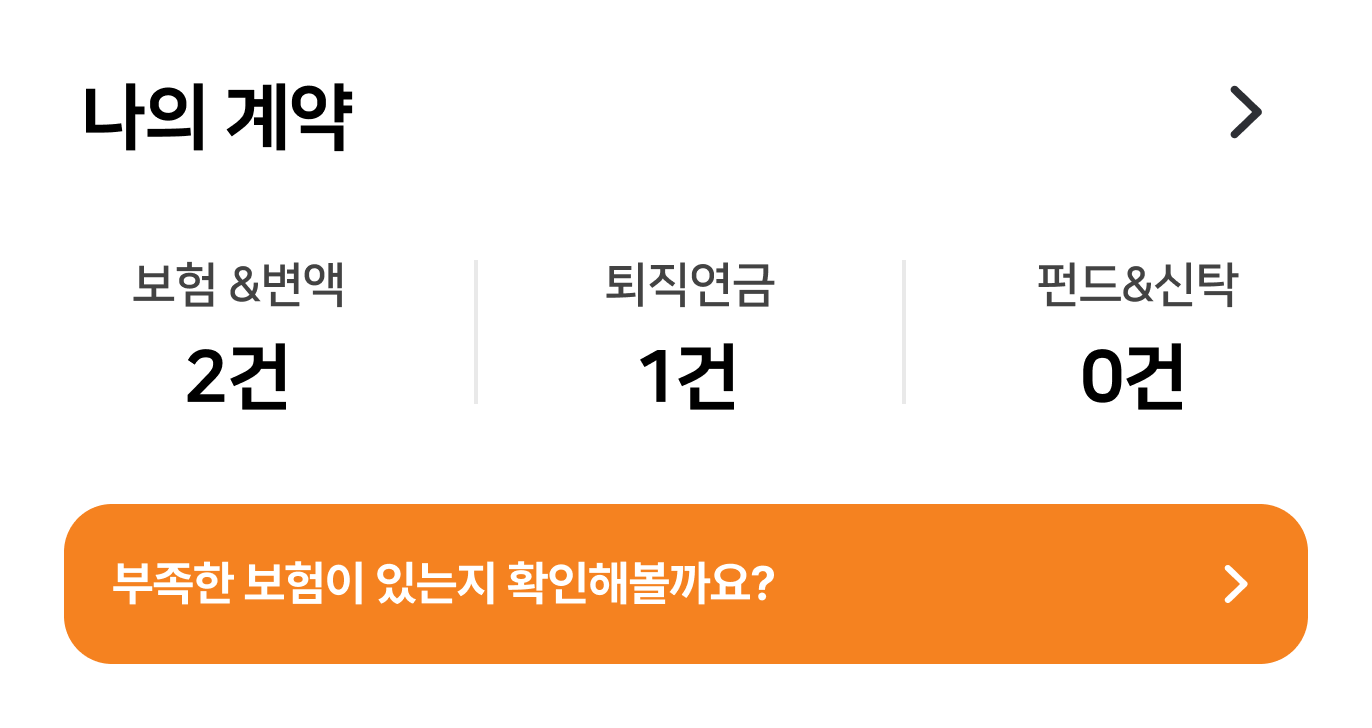
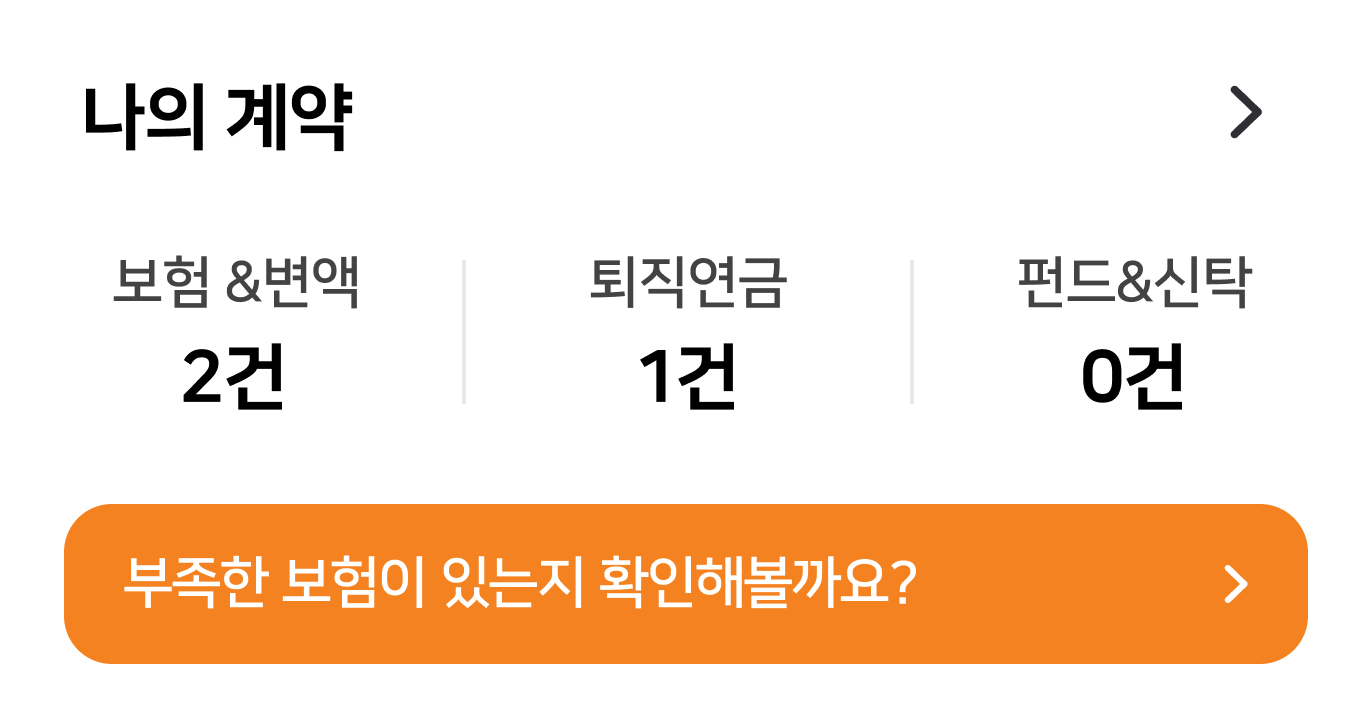
a안 수정
a안 수정

diff --git a/sian/typeA/sian.css b/sian/typeA/sian.css
@@ -306,6 +306,9 @@ header .logo svg {
 .card-content__round-box .recommend-routine__wrap .tit {
   padding: calc(64 / 16 * 1rem) calc(20 / 16 * 1rem) 0;
 }
+.tab-pane1s.health-producttab .swiper-slide {
+  width: 85.6vw !important;
+}
 
 /* 그래프 */
 .graph__wrap--bar-type {
@@ -531,7 +534,7 @@ header .logo svg {
   color: #616161;
   font-family: "Pretendard";
   font-size: 12px;
-  font-weight: 500;
+  font-weight: 400;
   line-height: 18px; /* 150% */
   letter-spacing: -0.24px;
 }
@@ -570,12 +573,12 @@ header .logo svg {
 .section.drinking-info ul {
   flex-direction: column;
   display: flex;
-  gap: 36px;
+  gap: 24px;
 }
 .section.drinking-info li {
   display: flex;
   justify-content: space-between;
-  gap: 21px;
+  gap: 20px;
   align-items: center;
 }
 .section.drinking-info li img {
@@ -601,7 +604,7 @@ header .logo svg {
   font-family: "Pretendard";
   font-size: 13px;
   font-style: normal;
-  font-weight: 500;
+  font-weight: 400;
   line-height: 18px; /* 138.462% */
   letter-spacing: -0.26px;
 }
@@ -651,10 +654,15 @@ header .logo svg {
 }
 
 .section.health_report {
-  padding: calc(20 / 16 * 1rem) calc(6 / 16 * 1rem) calc(34 / 16 * 1rem);
+  padding: calc(22 / 16 * 1rem) calc(16 / 16 * 1rem) calc(34 / 16 * 1rem);
+  display: flex;
+  gap: 15px;
 }
+
 .section.health_report img {
-  width: 100%;
+  width: calc(50% - 7.5px);
+  box-shadow: 0px 3px 12px 0px rgba(0, 0, 0, 0.11);
+  border-radius: 20px;
 }
 @keyframes bar-pos1 {
   from {
@@ -1971,15 +1979,15 @@ header .logo svg {
 }
 
 .swiper.card0100 .video__wrap {
-  position: relative;  
+  position: relative;
 }
 .swiper.card0100 .video__wrap video {
   position: absolute;
   width: 100%;
   height: 100%;
-  left:0;
+  left: 0;
   right: 0;
-  bottom:0;
+  bottom: 0;
   border-radius: 12px;
   overflow: hidden;
 }

diff --git a/sian/typeA/typeA01.html b/sian/typeA/typeA01.html
@@ -101,11 +101,11 @@
               <div class="swiper-slide">
                 <div class="video__wrap">
                   <video playsinline autoplay muted loop>
-                    <source src="./img/temp00000.mp4" type="video/mp4">
+                    <source src="./img/temp00000.mp4" type="video/mp4" />
                     <!-- <source src="./img/temp00000.ogg" type="video/ogg"> -->
                     Your browser does not support the video tag.
-                  </video>     
-                  <img src="./img/temp00000.png" style="opacity: 0" alt="" />              
+                  </video>
+                  <img src="./img/temp00000.png" style="opacity: 0" alt="" />
                 </div>
               </div>
               <div class="swiper-slide">
@@ -277,7 +277,7 @@
                 <!-- <li><a href="#">연금</a></li> -->
               </ul>
             </div>
-            <div class="tab-pane1s">
+            <div class="tab-pane1s health-producttab">
               <div class="tab-pane1 is-active">
                 <div class="section swiper-card">
                   <div class="swiper card01">

diff --git a/sian/typeA/typeA02_healthcare02.html b/sian/typeA/typeA02_healthcare02.html
@@ -435,7 +435,8 @@
         </div>
 
         <div class="section health_report">
-          <img src="./img/health_report.png" alt="" />
+          <img src="./img/health_report01.png" alt="" />
+          <img src="./img/health_report02.png" alt="" />
         </div>
 
         <div class="section all-img-section animation-enter">
